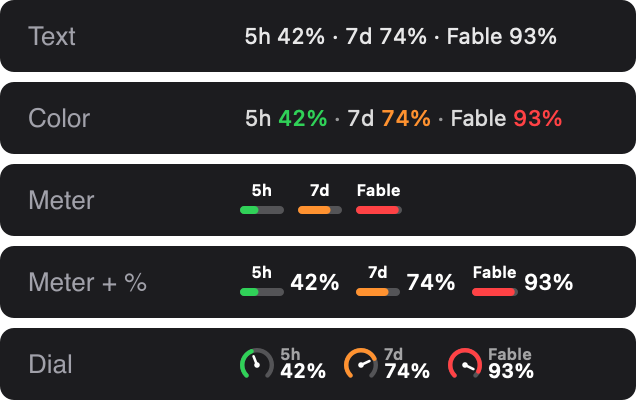
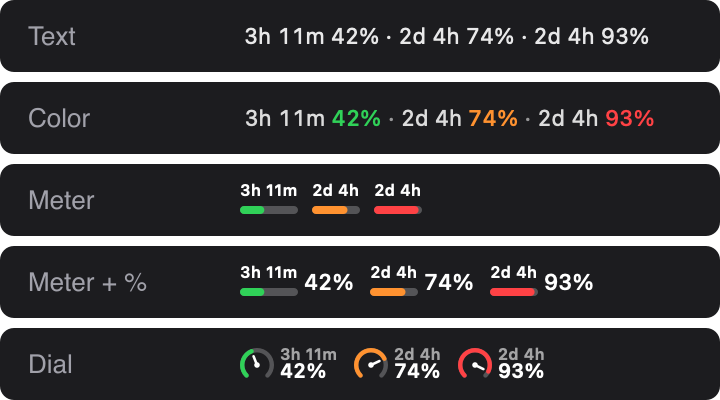
Headroom 1.0.2: show time left in the menu bar
- Each stat has a clock toggle next to its checkbox: the menu bar shows
  its time left ("3h 11m") instead of its name. On by default.
- Site: the demo menu bar shows your current date and time; screenshots
  regenerated (no fixed clock).

diff --git a/docs/index.html b/docs/index.html
@@ -24,7 +24,7 @@
   .fine { color: var(--muted); font-size: 0.9rem; margin: 14px 0 0; }
   img.shot { display: block; width: 100%; height: auto; border-radius: 16px; border: 1px solid var(--line); margin: 48px 0 0; }
   h2 { font-size: 1.4rem; margin: 56px 0 16px; }
-  img.styles { width: 100%; max-width: 318px; height: auto; }
+  img.styles { width: 100%; max-width: 360px; height: auto; }
   ol { display: inline-block; text-align: left; padding-left: 1.2em; margin: 0; }
   li { margin: 0 0 8px; }
   footer { padding: 40px 16px 56px; color: var(--muted); font-size: 0.85rem; }
@@ -49,7 +49,8 @@
     --n: var(--v); counter-reset: n var(--n);
     animation: count 1.4s ease-out var(--d) both, count-drift 3.5s ease-in-out calc(var(--d) + 1.4s) infinite alternate; }
   .dial b::after { content: counter(n) "%"; }
-  .clock { font-size: 15px; color: #d4d4d8; padding-left: 4px; }
+  .clock { font-size: 15px; color: #d4d4d8; padding-left: 4px; white-space: nowrap; }
+  .clock:empty { display: none; }
   .caption { color: var(--muted); font-size: 0.9rem; margin: 0 0 28px; }
   /* once: 0 -> value */
   @keyframes fill { from { stroke-dashoffset: 100; } to { stroke-dashoffset: calc(100 - var(--v)); } }
@@ -82,17 +83,17 @@
       <svg viewBox="0 0 100 100"><path class="track" d="M23.13 82.87A38 38 0 1 1 76.87 82.87"/><path class="arc" pathLength="100" d="M23.13 82.87A38 38 0 1 1 76.87 82.87"/><line class="needle" x1="50" y1="56" x2="50" y2="30"/><circle cx="50" cy="56" r="7"/></svg>
       <span><small>Fable</small><b></b></span>
     </div>
-    <span class="clock">9:41</span>
+    <span class="clock" id="clock"></span>
   </div>
   <p class="caption">Green, amber, red: know before you hit the limit.</p>
 
   <a class="btn" href="https://github.com/CatalystMonish/headroom/releases/latest/download/Headroom.dmg">Download for macOS</a>
   <p class="fine">Free &amp; open source · macOS 14+ · <a href="https://github.com/CatalystMonish/headroom">GitHub</a></p>
 
-  <img class="shot" src="preview.png" width="1600" height="868" alt="Headroom showing session, weekly and Fable limits in the menu bar and its popup.">
+  <img class="shot" src="preview.png" width="1600" height="894" alt="Headroom showing session, weekly and Fable limits in the menu bar and its popup.">
 
   <h2>Pick a style</h2>
-  <img class="styles" src="bar-styles.png" width="636" height="400" alt="The five menu bar styles: text, color, meter, meter with percent, and dial.">
+  <img class="styles" src="bar-styles.png" width="720" height="400" alt="The five menu bar styles: text, color, meter, meter with percent, and dial.">
 
   <h2>Get started</h2>
   <ol>
@@ -102,5 +103,13 @@
   </ol>
 </main>
 <footer>Unofficial. Not affiliated with or endorsed by Anthropic.</footer>
+<script>
+  // the demo menu bar shows your current date and time, like the real one
+  const clock = document.getElementById("clock")
+  const fmt = new Intl.DateTimeFormat(undefined, { weekday: "short", month: "short", day: "numeric", hour: "numeric", minute: "2-digit" })
+  const tick = () => { clock.textContent = fmt.format(new Date()).replace(/,/g, "") }
+  tick()
+  setInterval(tick, 15000)
+</script>
 </body>
 </html>

diff --git a/Sources/Headroom/PopoverView.swift b/Sources/Headroom/PopoverView.swift
@@ -31,6 +31,9 @@ struct PopoverView: View {
 							StatRow(stat: stat, pinned: Binding(
 								get: { usage.isPinned(stat.id) },
 								set: { usage.setPinned(stat.id, $0) }
+							), timeLeft: Binding(
+								get: { usage.showsTimeLeft(stat.id) },
+								set: { usage.setShowsTimeLeft(stat.id, $0) }
 							))
 						}
 					}
@@ -38,8 +41,9 @@ struct PopoverView: View {
 				if let shares = breakdownText {
 					Text(shares).font(.caption2).foregroundStyle(.secondary)
 				}
-				Text(usage.pinned.isEmpty ? "Tick a stat to show it in the menu bar." : "Ticked stats show in the menu bar.")
+				Text("Tick a stat to show it in the menu bar. The clock shows its time left instead of its name.")
 					.font(.caption2).foregroundStyle(.tertiary)
+					.fixedSize(horizontal: false, vertical: true)
 			}
 
 			VStack(alignment: .leading, spacing: 4) {
@@ -132,6 +136,7 @@ private struct AccountView: View {
 private struct StatRow: View {
 	let stat: UsageStat
 	@Binding var pinned: Bool
+	@Binding var timeLeft: Bool
 
 	var body: some View {
 		HStack(spacing: 8) {
@@ -139,7 +144,15 @@ private struct StatRow: View {
 				.toggleStyle(.checkbox)
 				.labelsHidden()
 				.help("Show in menu bar")
-			Text(stat.label).font(.caption).lineLimit(1).frame(width: 84, alignment: .leading)
+			// menubar label: time left (on) or the stat's name (off)
+			Button { timeLeft.toggle() } label: {
+				Image(systemName: timeLeft && stat.resetsAt != nil ? "clock.fill" : "clock")
+			}
+			.buttonStyle(.borderless)
+			.foregroundStyle(timeLeft && stat.resetsAt != nil ? .primary : .tertiary)
+			.disabled(stat.resetsAt == nil)
+			.help(timeLeft ? "Menu bar shows the time left. Click to show the name instead." : "Menu bar shows the name. Click to show the time left instead.")
+			Text(stat.label).font(.caption).lineLimit(1).frame(width: 78, alignment: .leading)
 			Meter(percent: stat.percent, color: stat.dimmed ? .secondary : Color(nsColor: ClaudeUsage.severityColor(stat.percent)))
 			Text(stat.value).font(.caption.monospacedDigit()).bold()
 				.foregroundStyle(stat.dimmed ? .secondary : .primary)

diff --git a/Sources/Headroom/UsageStore.swift b/Sources/Headroom/UsageStore.swift
@@ -31,16 +31,35 @@ final class UsageStore: ObservableObject {
 	@Published var barStyle: BarStyle {
 		didSet { UserDefaults.standard.set(barStyle.rawValue, forKey: "barStyle") }
 	}
+	// Stats labelled by name in the menubar. Every other stat shows its time
+	// left ("3h 11m") instead; storing the opt-outs makes that the default.
+	@Published var nameLabels: [String] {
+		didSet { UserDefaults.standard.set(nameLabels, forKey: "nameLabels") }
+	}
 
 	private var timer: Timer?
 
 	init() {
 		pinned = UserDefaults.standard.stringArray(forKey: "pinnedStats") ?? [] // nothing pinned: the menubar shows the logo
 		barStyle = BarStyle(rawValue: UserDefaults.standard.string(forKey: "barStyle") ?? "") ?? .meterText
+		nameLabels = UserDefaults.standard.stringArray(forKey: "nameLabels") ?? []
 	}
 
 	var stats: [UsageStat] { snapshot?.stats ?? [] }
-	var pinnedStats: [UsageStat] { stats.filter { pinned.contains($0.id) } }
+	// pinned stats as the menubar labels them: time left, or name
+	var pinnedStats: [UsageStat] {
+		stats.filter { pinned.contains($0.id) }.map { s in
+			guard showsTimeLeft(s.id), s.resetsAt != nil else { return s }
+			var s = s
+			s.short = ClaudeUsage.formatReset(s.resetsAt)
+			return s
+		}
+	}
+
+	func showsTimeLeft(_ id: String) -> Bool { !nameLabels.contains(id) }
+	func setShowsTimeLeft(_ id: String, _ on: Bool) {
+		if on { nameLabels.removeAll { $0 == id } } else if !nameLabels.contains(id) { nameLabels.append(id) }
+	}
 	// last good data is still on screen, but the latest fetch failed
 	var isStale: Bool { snapshot != nil && error != nil }
 

diff --git a/scripts/screens/main.swift b/scripts/screens/main.swift
@@ -27,8 +27,13 @@ MainActor.assumeIsolated {
 		let item = NSStatusBar.system.statusItem(withLength: NSStatusItem.variableLength)
 		let b = item.button!
 		b.appearance = NSAppearance(named: mode)
+		// the menubar gets its stats from the store, exactly as the app does
+		// (pinned ones only, labelled with their time left by default)
+		let bar = UsageStore()
+		bar.snapshot = snap
+		bar.pinned = pins
 		var cases: [(String, [UsageStat], BarStyle)] = [("logo", [], .meterText)]
-		for s in BarStyle.allCases { cases.append((s.rawValue, snap.stats.filter { pins.contains($0.id) }, s)) }
+		for s in BarStyle.allCases { cases.append((s.rawValue, bar.pinnedStats, s)) }
 		for (label, stats, style) in cases {
 			for _ in 0..<2 { // first pass warms up the button
 				MenuBarRenderer.apply(to: b, stats: stats, style: style, warn: false, tooltip: "")

diff --git a/Sources/Headroom/ClaudeUsage.swift b/Sources/Headroom/ClaudeUsage.swift
@@ -11,7 +11,7 @@ import Foundation
 struct UsageStat: Identifiable, Equatable {
 	let id: String          // "session" | "weekly" | "model:<name>" | "credits"
 	let label: String       // popup row label, e.g. "Weekly (7d)"
-	let short: String       // menubar label, e.g. "7d"
+	var short: String       // menubar label, e.g. "7d" (or the time left, see UsageStore)
 	let percent: Double     // 0-100
 	let value: String       // "60%", "$0/$100", "OFF"
 	let resetsAt: Date?

diff --git a/README.md b/README.md
@@ -22,6 +22,8 @@ Free · open source (MIT) · signed & notarized · macOS 14+ · Apple Silicon & 
   green, then amber at 70%, then red at 90%.
 - **Pin any stat to the menu bar** with its checkbox. With nothing pinned, Headroom is
   just a small logo.
+- **Time left or name:** the clock next to each stat shows its time left (`3h 11m`) in
+  the menu bar instead of its name. On by default.
 - **Five styles:** Text, Color, Meter, Meter + %, and speedometer-style Dial.
 - **Reset countdowns**, plus this week's split by surface (Claude Code, Chats, …).
 - **Private:** no analytics, no servers. The only network requests go to
